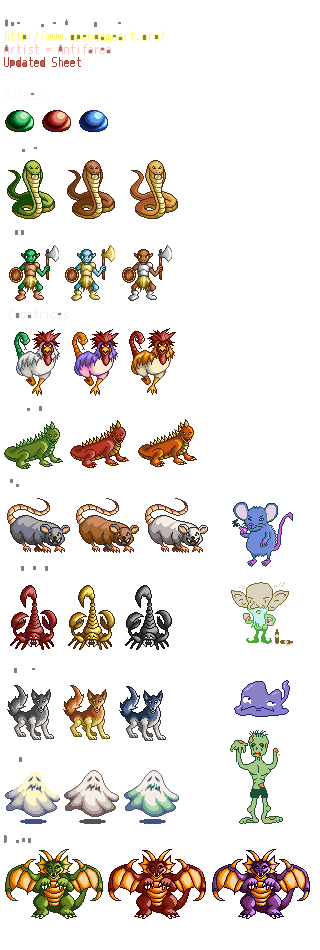
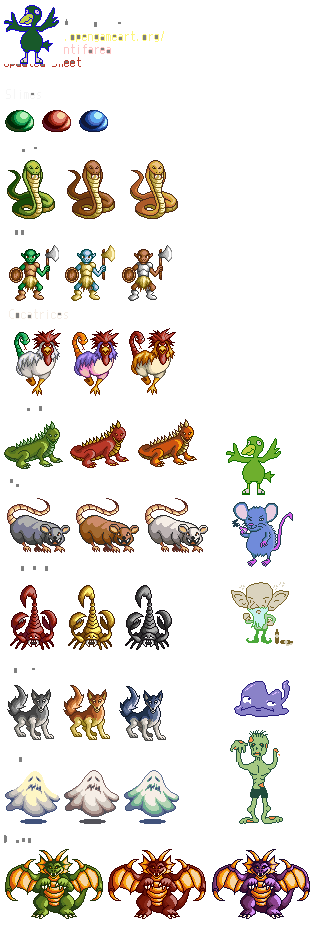
Added pidgeon and debuffing

Changed region(s): [[0.0, 0.0, 0.2188, 0.0916], [0.7188, 0.4579, 0.875, 0.5189]]

diff --git a/js/src/graphics.js b/js/src/graphics.js
@@ -18,7 +18,7 @@ define(["display/fonts"], function(fonts) {
 
         this.setOrigin = function(x, y) {
             context.setTransform(1, 0, 0, 1, 0, 0);
-            context.translate(originOffset.x + (x | 0), originOffset.y + (y | 0));
+            context.translate(originOffset.x + (x | 0), originOffset.y + (y | 0), 0);
         };
 
         this.withOriginOffset = function(x, y, fn) {
@@ -42,10 +42,7 @@ define(["display/fonts"], function(fonts) {
             visibleContext.drawImage(offScreenCanvas, 0, 0);
         };
 
-        this.cls = function() {
-            this.setFillColorRGB(0, 0, 0);
-            this.drawFilledRect(0, 0, width, height);
-        };
+        this.cls = context.clearRect.bind(context, 0,0,width,height);
 
         this.setFillColor = function(color) {
             context.fillStyle = color;
@@ -59,9 +56,7 @@ define(["display/fonts"], function(fonts) {
             context.fillRect(x, y, width, height);
         };
 
-        this.drawImage = function(image, x, y) {
-            context.drawImage(image, x, y);
-        }
+        this.drawImage = context.drawImage.bind(context);
 
         this.drawImageRect = function(image, sourceRect, destRect) {
             context.drawImage(image,

diff --git a/js/src/skill-effects.js b/js/src/skill-effects.js
@@ -59,6 +59,17 @@ define(["underscore", "dice", "json!skills.json"], function(_, Dice, Skills) {
         };
     };
 
+    var standardDebuff = function(user, target, skill) {
+        var dice = Dice.parse(skill.power);
+        return {
+            type: "buff",
+            amount: -Math.floor(user.force() / 2 + dice.roll()),
+            target: target,
+            stat: skill.stat,
+            duration: skill.duration
+        };
+    };
+
     var poison = function(user, target, skill, dice) {
         var dice = Dice.parse(skill.power);
         return {
@@ -98,6 +109,7 @@ define(["underscore", "dice", "json!skills.json"], function(_, Dice, Skills) {
         "damage/magic": standardSkillEffect(magicDamage),
         "heal/normal": standardSkillEffect(standardHeal),
         "buff": standardSkillEffect(standardBuff),
+        "debuff": standardSkillEffect(standardDebuff),
         "poison": standardSkillEffect(poison),
         "removeStatus": standardSkillEffect(removeStatus),
         "none": _.give([]),

diff --git a/js/src/battle/battle-effect-executor.js b/js/src/battle/battle-effect-executor.js
@@ -151,12 +151,12 @@ define(["underscore", "jquery", "battle/battle-message-state", "battle/battle-te
         self.snd("heal");
 
         self.state.enqueueFunc(function() {
-            if (effect.amount > 0) {
+            if (effect.amount !== 0) {
                 effect.target.addBuff(effect.stat, effect.amount, effect.duration);
             }
-        });
 
-        self.msg(effect.target.name + "'s " + effect.stat + " " + buffDir + " by " + Math.abs(effect.amount) + " for " + effect.duration + " rounds!");
+            self.msg(effect.target.name + "'s " + effect.stat + " " + buffDir + " by " + Math.abs(effect.amount) + " for " + effect.duration + " rounds!");
+        });
     };
 
     BattleEffectExecutor.prototype.message = function(effect) {

diff --git a/js/src/pawns/pawn-base.js b/js/src/pawns/pawn-base.js
@@ -56,7 +56,7 @@ define(["underscore"], function(_) {
             return this.agility();
         },
         accuracy: function() {
-            return Math.floor((this.strength() + this.agility() + this.luck()/2) + 50);
+            return Math.floor((this.strength() + this.agility() + this.luck()/2) + 50 + (this.buffs["accuracy"]||0));
         },
         evade: function() {
             return Math.floor((3 * this.agility() + this.luck()) / 4 + (this.buffs["evade"]||0));
